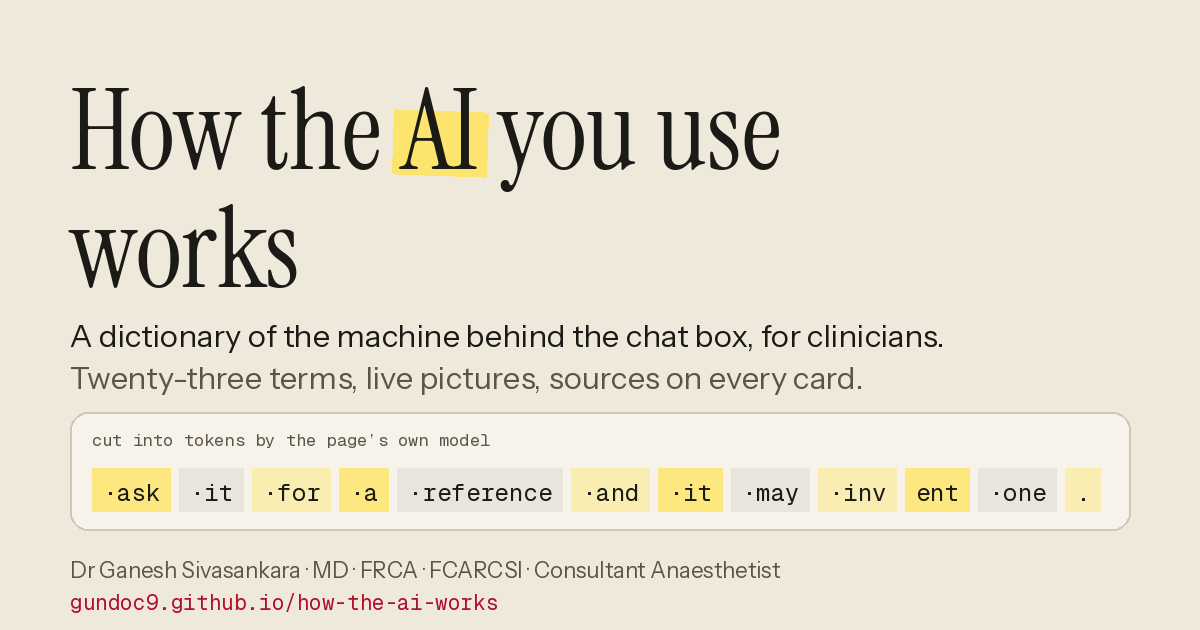
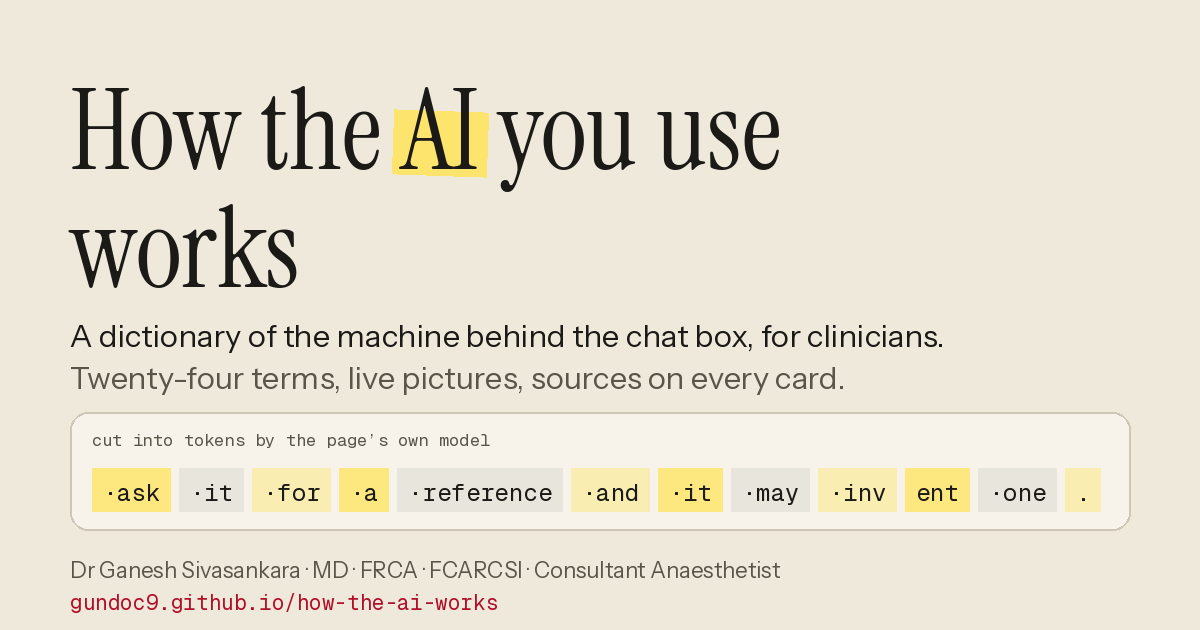
Add files via upload

Changed region(s): [[0.1542, 0.573, 0.7092, 0.6333]]

diff --git a/index.html b/index.html
@@ -5,7 +5,7 @@
 <meta name="viewport" content="width=device-width, initial-scale=1, viewport-fit=cover">
 <meta name="theme-color" content="#EFE9DC">
 <meta name="author" content="Dr Ganesh Sivasankara">
-<meta name="description" content="A dictionary of the machine behind the chat box, for clinicians. Twenty-three terms, live pictures, sources on every card.">
+<meta name="description" content="A dictionary of the machine behind the chat box, for clinicians. Twenty-four terms, live pictures, sources on every card.">
 <title>How the AI you use works</title>
 <!-- shell: home-screen launch and icons; social card for link previews. Kept in build.py so a rebuild never drops them. -->
 <meta name="mobile-web-app-capable" content="yes">
@@ -17,14 +17,14 @@
 <meta property="og:type" content="website">
 <meta property="og:site_name" content="How the AI you use works">
 <meta property="og:title" content="How the AI you use works">
-<meta property="og:description" content="A dictionary of the machine behind the chat box, for clinicians. Twenty-three terms, live pictures, sources on every card.">
+<meta property="og:description" content="A dictionary of the machine behind the chat box, for clinicians. Twenty-four terms, live pictures, sources on every card.">
 <meta property="og:url" content="https://gundoc9.github.io/how-the-ai-works/">
 <meta property="og:image" content="https://gundoc9.github.io/how-the-ai-works/how-the-ai-works-card.png">
 <meta property="og:image:width" content="1200">
 <meta property="og:image:height" content="630">
 <meta name="twitter:card" content="summary_large_image">
 <meta name="twitter:title" content="How the AI you use works">
-<meta name="twitter:description" content="A dictionary of the machine behind the chat box, for clinicians. Twenty-three terms, live pictures, sources on every card.">
+<meta name="twitter:description" content="A dictionary of the machine behind the chat box, for clinicians. Twenty-four terms, live pictures, sources on every card.">
 <meta name="twitter:image" content="https://gundoc9.github.io/how-the-ai-works/how-the-ai-works-card.png">
 <style>
[1 lines of base64/hex data omitted]
@@ -139,7 +139,8 @@ var SOURCES = {
   packer23: {cite:"Packer C, Wooders S, Lin K, et al. MemGPT: towards LLMs as operating systems. arXiv 2023.", link:"https://arxiv.org/abs/2310.08560", label:"arXiv 2310.08560", held:"abstract read"},
   zheng23: {cite:"Zheng L, Chiang WL, Sheng Y, et al. Judging LLM-as-a-judge with MT-Bench and Chatbot Arena. NeurIPS 2023 Datasets and Benchmarks.", link:"https://arxiv.org/abs/2306.05685", label:"arXiv 2306.05685", held:"abstract read"},
   gallifant25: {cite:"Gallifant J, Afshar M, Ameen S, et al. The TRIPOD-LLM reporting guideline for studies using large language models. Nat Med 2025;31:60-69.", link:"https://doi.org/10.1038/s41591-024-03425-5", label:"doi 10.1038/s41591-024-03425-5", held:"abstract read"},
-  sumers23: {cite:"Sumers TR, Yao S, Narasimhan K, Griffiths TL. Cognitive architectures for language agents. Trans Mach Learn Res 2024.", link:"https://arxiv.org/abs/2309.02427", label:"arXiv 2309.02427", held:"abstract read"}
+  sumers23: {cite:"Sumers TR, Yao S, Narasimhan K, Griffiths TL. Cognitive architectures for language agents. Trans Mach Learn Res 2024.", link:"https://arxiv.org/abs/2309.02427", label:"arXiv 2309.02427", held:"abstract read"},
+  patel24: {cite:"Patel P, Choukse E, Zhang C, et al. Splitwise: efficient generative LLM inference using phase splitting. ISCA 2024.", link:"https://arxiv.org/abs/2311.18677", label:"arXiv 2311.18677", held:"abstract read"}
 };
 
 var SECTIONS = [
@@ -160,7 +161,7 @@ var CARDS = [
   freeText:{placeholder:"Type a sentence to cut it", def:"The anaesthetist gave propofol and remifentanil, then checked the capnograph."},
   body:[
     "Before anything happens, your message is cut into tokens. Common words get one token each. Rare words, drug names and numbers get broken into pieces, so a sentence about remifentanil costs more tokens than a sentence about sleep.",
-    "The pieces come from counting. Start with single letters, glue together the pair that appears most often in a huge pile of text, and repeat tens of thousands of times. The result is the vocabulary.",
+    "The pieces come from counting. Start with single letters, glue together the pair that appears most often in a huge pile of text, and repeat tens of thousands of times. The result is the vocabulary, with a number for each entry, and the numbers are all the model ever sees.",
     "The window cuts your sentence with a tokeniser trained on this page. Move the vocabulary from none to all and watch the pieces grow."
   ],
   analogy:"A ward clerk abbreviates the words she types every day and spells out the ones she has never seen.",
@@ -209,7 +210,7 @@ var CARDS = [
   body:[
     "The scores leave the model as raw numbers. Before a token is picked, the app divides them by the temperature. A small temperature makes the favourite stand out more, and a large one lets the others catch up.",
     "At temperature 0 the favourite wins every time. Above 1, unlikely tokens get a real chance, and that is where fluent nonsense comes from.",
-    "You do not usually see this dial, because most chat products set it for you. The window applies the real formula to the toy model's scores."
+    "You do not usually see this dial, because most chat products set it for you, and it is one of several: others cut the list down to its most likely members before the draw. The window applies the real formula to the toy model’s scores."
   ],
   analogy:"The gain on the ultrasound: turned down it shows only the strongest echo, and turned up it lets the speckle through as well.",
   sources:["holtzman20"],
@@ -234,6 +235,22 @@ var CARDS = [
   related:["temperature","hallucination"]
 },
 {
+  id:"phases", short:"Why there is a pause before the first word, then a steady stream.", section:"choice", title:"Prefill and decode",
+  what:"The two halves of every answer: the model reads your whole prompt in one pass, then writes one token per pass.",
+  label:"diagram",
+  pic:"phases",
+  control:{name:"What you sent", options:[{l:"A short question",v:40},{l:"A page pasted",v:800},{l:"A paper pasted",v:8000}], def:0},
+  body:[
+    "Every answer has two phases. First the model reads everything in the window in one big pass, which is the pause before the first word, and the more you pasted the longer the pause. Then it writes one token per pass at a steady rate, which is the stream.",
+    "The two phases strain the chip differently. Reading is heavy arithmetic. Writing is a small calculation repeated thousands of times, and every step has to fetch the whole model from memory, so the speed of the stream is set by how fast memory can be read, and it does not depend on how hard the question is.",
+    "That is why a pasted paper costs more than a short question and why the first word takes longest after a long paste. A thinking model is slower for the same reason, since every thinking token is one more pass. The window shows both phases for a prompt of the length you choose."
+  ],
+  analogy:"A radiologist reads the whole film before saying a word, then dictates the report one sentence at a time.",
+  sources:["patel24"],
+  from:[{s:"patel24", t:"Each request has two phases with different characteristics, a compute-intensive prompt computation and a memory-intensive token generation, and the second runs one token at a time from the cached context (2024)."}],
+  related:["next","context","reasoning"]
+},
+{
   id:"reasoning", short:"Text the model writes to itself before it answers.", section:"choice", title:"Reasoning tokens",
   what:"Text the model writes to itself before it answers, because it has nowhere else to think.",
   label:"diagram",
@@ -246,7 +263,7 @@ var CARDS = [
   ],
   analogy:"The dose is worked out aloud in front of the ODP: the steps have to be spoken to be remembered, and the speaking is what gets checked.",
   sources:["wei22","guo25","turpin23"],
-  from:[{s:"wei22", t:"Asking a large model to write its steps first raised its accuracy on arithmetic and reasoning problems, and only at large scale (2022)."}, {s:"guo25", t:"The reasoning models of 2025 were trained with reinforcement learning on answers that could be checked."}, {s:"turpin23", t:"A model's written explanation can leave out what actually swayed its answer (2023)."}],
+  from:[{s:"wei22", t:"Asking a large model to write its steps first raised its accuracy on arithmetic and reasoning problems, and only at large scale (2022)."}, {s:"guo25", t:"The reasoning models of 2025 were trained with reinforcement learning on answers that could be checked."}, {s:"turpin23", t:"A model’s written explanation can leave out what actually swayed its answer (2023)."}],
   related:["next","context","rl"]
 },
 {
@@ -258,7 +275,7 @@ var CARDS = [
   body:[
     "The model has no memory of its own. Each time it produces a token it is handed the whole text so far, up to a limit measured in tokens. What is inside the limit exists for it, and what is outside does not.",
     "The limits are large now, and they are real. When a conversation outgrows the window the app decides what happens: some drop the oldest turns, some summarise them, and some refuse to go on.",
-    "The window shows a six-turn conversation counted with this page's tokeniser. Widen the limit and watch turns come into view."
+    "The window shows a six-turn conversation counted with this page’s tokeniser. Widen the limit and watch turns come into view."
   ],
   analogy:"The night team knows only what fitted into the ten-minute handover; whatever was left out does not exist for them.",
   sources:["liu24"],
@@ -278,7 +295,7 @@ var CARDS = [
   ],
   analogy:"The briefing the agency nurse gets before the shift is never heard by the patient and shapes everything that follows.",
   sources:["greshake23"],
-  from:[{s:"greshake23", t:"Instructions hidden in retrieved or pasted content can be followed as if they were the user's (2023)."}],
+  from:[{s:"greshake23", t:"Instructions hidden in retrieved or pasted content can be followed as if they were the user’s (2023)."}],
   related:["context","training"]
 },
 {
@@ -304,7 +321,7 @@ var CARDS = [
   pic:"window",
   control:{name:"Retrieval", options:[{l:"Off",v:"off"},{l:"On",v:"on"}], def:0},
   body:[
-    "The model's parameters hold what was in its training text, blurred and undated. Retrieval adds a second memory the app can update: a search over documents, with the top hits placed in the window as text.",
+    "The model’s parameters hold what was in its training text, blurred and undated. Retrieval adds a second memory the app can update: a search over documents, with the top hits placed in the window as text.",
     "An answer with a quoted source is a different kind of answer, because the source was in the window and can be checked. Without retrieval, a citation is a prediction.",
     "The window shows the same conversation with a retrieved passage dropped in before the question."
   ],
@@ -384,7 +401,7 @@ var CARDS = [
   pic:"map",
   control:{name:"Word", options:[], def:0},
   body:[
-    "The model cannot work on letters. Every token becomes a list of numbers, hundreds or thousands long, learned so that tokens used in similar contexts get similar lists. Distance in that space is the model's first idea of meaning.",
+    "The model cannot work on letters. Every token becomes a list of numbers, hundreds or thousands long, learned so that tokens used in similar contexts get similar lists. Distance in that space is the model’s first idea of meaning.",
     "Propofol and sevoflurane end up near each other because they appear in the same kinds of sentence, whether or not anything inside knows what either drug does. A token the model has rarely seen starts from a poor position.",
     "The window counts which words on this page appear near which, within two places, and squashes the result to two dimensions. Tap a word and its nearest neighbours light up."
   ],
@@ -482,7 +499,7 @@ var CARDS = [
   control:{name:"Prompt", options:[], def:0}, // filled at load
   action:{l:"Generate again"},
   body:[
-    "The model's job is to continue text plausibly. A reference in the right shape, with a plausible journal and year, scores well whether or not it exists. Nothing in the loop checks the world.",
+    "The model’s job is to continue text plausibly. A reference in the right shape, with a plausible journal and year, scores well whether or not it exists. Nothing in the loop checks the world.",
     "Some of this is built in. A model that matches its training data must sometimes invent facts of the kind it saw only once. Later training reduces the rate, and tests that reward guessing push it back up.",
     "The window lets the toy model continue a clinical sentence. Highlighted tokens close a phrase that never appears in its training text. Nothing highlighted is wrong by itself; the point is that nothing checked it."
   ],
@@ -510,13 +527,13 @@ var CARDS = [
 },
 {
   id:"calibration", short:"Whether the stated confidence matches the hit rate.", section:"wrong", title:"Calibration",
-  what:"Whether the model's confidence matches its accuracy. Answers given with 70% confidence should be right about 70% of the time.",
+  what:"Whether the model’s confidence matches its accuracy. Answers given with 70% confidence should be right about 70% of the time.",
   label:"live",
   pic:"reliability",
   control:{name:"Temperature", options:[{l:"0.5",v:0.5},{l:"1.0",v:1.0},{l:"2.0",v:2.0}], def:0},
   body:[
     "Confidence and correctness are different things. A model can be confidently wrong or hesitantly right, and what matters for using it is whether its confidence tracks its hit rate.",
-    "A stated confidence in a chat reply is generated text, shaped by later training, and it can be far from the model's internal score.",
+    "A stated confidence in a chat reply is generated text, shaped by later training, and it can be far from the model’s internal score.",
     "The window tests the toy model on the fifth of the text it never saw. Each bar is the accuracy of predictions made at that confidence. Change the temperature and watch the bars move against the diagonal; raise it far enough and every prediction lands in one low bin, calibrated and useless."
   ],
   analogy:"A consent-form risk of one in twenty is judged over a hundred patients, never over one.",
@@ -567,7 +584,8 @@ var ABOUT = {
   diagram:"Cards marked Diagram draw a picture to explain a mechanism. Nothing in them is measured.",
   sim:"Cards marked Simulation run a real learning rule on rewards that this page sets. The learning is real; the rewards are invented to show it.",
   privacy:"Beyond this page and its icon nothing is downloaded, and nothing you type leaves your phone. Links to sources open only if you tap one.",
-  version:"v20, built 10 September 2026"
+  more:[{t:"Reading the EEG", d:"the anaesthetic EEG, from the raw trace to burst suppression", link:"https://gundoc9.github.io/reading-the-eeg/"},{t:"Cannulation geometry", d:"entry angle, catheter length and where the tip ends up", link:"https://gundoc9.github.io/cannulation-geometry/"}],
+  version:"v22, built 12 September 2026"
 };
 if(typeof module!=="undefined") module.exports = {SOURCES:SOURCES, SECTIONS:SECTIONS, CARDS:CARDS, CLAIMS:CLAIMS, ABOUT:ABOUT};
 </script>
@@ -901,7 +919,7 @@ if(typeof module!=="undefined") module.exports = ENGINE;
   function renderIndex(root){
     root.appendChild(el("div",{class:"top"},[el("span",{class:"eyebrow",text:"A dictionary for clinicians"})]));
     var h1 = el("h1",{class:"title"}); h1.innerHTML = 'How the <mark>AI</mark> you use works'; root.appendChild(h1);
-    root.appendChild(el("p",{class:"lede",text:"Twenty-three terms, one per card, each with a picture you can move, one analogy from theatre life, and the papers it rests on. Cards marked Computed live run a small language model built in your browser from the text on this page."}));
+    root.appendChild(el("p",{class:"lede",text:"Twenty-four terms, one per card, each with a picture you can move, one analogy from theatre life, and the papers it rests on. Cards marked Computed live run a small language model built in your browser from the text on this page."}));
     // hero: the page’s own tokeniser cutting a sentence, so the first screen shows what the cards do
     var hero = el("div",{class:"instrument hero"}); var hc = el("canvas",{"aria-label":"This sentence cut into tokens", role:"img"}); hero.appendChild(hc); root.appendChild(hero);
     setTimeout(function(){ try{ drawHero(hc); }catch(e){ showErr("hero: "+(e&&e.message)); } },0);
@@ -942,6 +960,8 @@ if(typeof module!=="undefined") module.exports = ENGINE;
     a.appendChild(el("div",{class:"h",text:"The toy model"}));
     var st = ENG.state;
     a.appendChild(el("p",{text:"Trained when the page opened: "+st.sents.length+" sentences, "+st.merges.length+" merges learned, "+st.model.vocab.length+" tokens in the vocabulary, "+st.train.length+" sentences used for training and "+st.held.length+" held back for the calibration test."}));
+    a.appendChild(el("div",{class:"h",text:"More from the same author"}));
+    (ABOUT.more||[]).forEach(function(m){ var p=el("p",null,[]); p.appendChild(el("a",{href:m.link,target:"_blank",rel:"noopener noreferrer",text:m.t})); p.appendChild(el("span",{text:": "+m.d+"."})); a.appendChild(p); });
     a.appendChild(el("div",{class:"h",text:"Version"}));
     a.appendChild(el("p",{text:ABOUT.version}));
     root.appendChild(a);
@@ -1440,6 +1460,25 @@ if(typeof module!=="undefined") module.exports = ENGINE;
     });
     var out=["The request is ordinary text in an agreed shape. Nothing has happened yet.","Only the app can do things in the world. The model produced a string.","Whatever came back is now in the window, unverified, next to your words.","From here it is next-token prediction again, with more in the window."];
     ro.textContent = "Step "+(a+1)+": "+out[a];
+  };
+  // 24 prefill and decode
+  PIC.phases = function(card, canvas, st, ro){
+    var N = card.control.options[st.opt].v;
+    var s = sizeCanvas(canvas, 250); var ctx=s.ctx;
+    var x0=0, y1=58, y2=150, barH=36, maxW=s.W*0.58;
+    var w = 30 + (Math.log10(N)-1)/(Math.log10(8000)-1)*maxW;
+    text(ctx, "you sent "+N.toLocaleString()+" tokens", 0, 14, {size:11, color:THEME.dim});
+    text(ctx, "the pause: reading everything in one pass", 0, y1-10, {size:11, font:SANS, color:THEME.ink});
+    ctx.fillStyle=THEME.tints[1]; roundRect(ctx, x0, y1, w, barH, 6); ctx.fill(); ctx.strokeStyle=THEME.cool; ctx.lineWidth=1.5; roundRect(ctx, x0+0.75, y1+0.75, w-1.5, barH-1.5, 6); ctx.stroke();
+    text(ctx, fitText(ctx, [N.toLocaleString()+" tokens read", "reading"], w-12, 11, SANS), x0+w/2, y1+barH*0.62, {size:11, font:SANS, align:"center", color:THEME.ink});
+    ctx.strokeStyle=THEME.hot; ctx.lineWidth=2; ctx.beginPath(); ctx.moveTo(x0+w, y1-4); ctx.lineTo(x0+w, y1+barH+6); ctx.stroke();
+    text(ctx, "first word", x0+w+6, y1+barH+18, {size:11, color:THEME.hotText});
+    text(ctx, fitText(ctx, ["the stream: one token per pass, at the same rate whatever you asked", "the stream: one token per pass, same rate whatever you asked", "the stream: one token per pass"], s.W, 11, SANS), 0, y2-10, {size:11, font:SANS, color:THEME.ink});
+    var n=14, bw=Math.min(18, (s.W-4)/n-4), gap=4;
+    for(var i=0;i<n;i++){ ctx.fillStyle=THEME.amberFill; roundRect(ctx, i*(bw+gap), y2, bw, 22, 4); ctx.fill(); }
+    ctx.strokeStyle=THEME.dim; ctx.lineWidth=1; ctx.beginPath(); ctx.moveTo(0, s.H-22); ctx.lineTo(s.W-2, s.H-22); ctx.lineTo(s.W-8, s.H-26); ctx.moveTo(s.W-2, s.H-22); ctx.lineTo(s.W-8, s.H-18); ctx.stroke();
+    text(ctx, "time", 0, s.H-6, {size:10, color:THEME.dim});
+    ro.textContent = (N<=40 ? "A short question is read almost at once, and the stream starts straight away." : (N<=800 ? "A pasted page takes a visible pause to read, then streams at the usual rate." : "A pasted paper takes the longest pause of the three, then streams at exactly the same rate as the short question."));
   };
   // 23 harness
   PIC.harness = function(card, canvas, st, ro){

diff --git a/SOURCES.md b/SOURCES.md
@@ -1,4 +1,4 @@
-# Sources and how far each was checked (v19, 10 September 2026)
+# Sources and how far each was checked (v22, 12 September 2026)
 
 What "checked" means here, in three grades:
 - **Full text read**: the paper was fetched and read in this session before the context was compacted; the numbers on the card were recorded at the time and one (six orders of magnitude) re-verified afterwards from the paper's own figure caption.
@@ -36,7 +36,8 @@ Every arXiv identifier came from a search result in this session, not from memor
 | Zheng 2023, arXiv 2306.05685 | abstract | Evals | a strong model as judge agreed with human raters over 80% of the time, about the human-human level, with position, verbosity and self-enhancement biases | abstract (checked 9 Sep) |
 | Gallifant 2025, Nat Med 31:60-69 | abstract | Evals | TRIPOD-LLM reporting guideline: transparency, human oversight, task-specific performance reporting | abstract (checked 9 Sep) |
 | Sumers 2023, arXiv 2309.02427 | abstract | Harness | a language agent as a model plus modular memories, an action space and a decision procedure | abstract (checked 10 Sep) |
+| Patel 2024, ISCA, arXiv 2311.18677 | abstract | Prefill and decode | two phases per request, compute-intensive prompt computation and memory-intensive token generation, the second one token at a time from the cached context | abstract (checked 12 Sep) |
 
-Not checked: the body of any abstract-grade paper beyond the two sections named above. A full-text pass over the 25 is about twenty-five fetches and one session; the abstracts support every claim as it is now worded, so the risk is nuance, not contradiction.
+Not checked: the body of any abstract-grade paper beyond the two sections named above. A full-text pass over the 26 is about twenty-six fetches and one session; the abstracts support every claim as it is now worded, so the risk is nuance, not contradiction.
 
 Dr Ganesh Sivasankara · MD · FRCA · FCARCSI · Consultant Anaesthetist

diff --git a/README.md b/README.md
@@ -1,6 +1,6 @@
 # How the AI you use works
 
-A dictionary of the machine behind the chat box, written for clinicians. Twenty-three terms, one per card. Each card carries a picture that responds to a control, one analogy from theatre life, and the papers it rests on, with a note on how far each paper was checked.
+A dictionary of the machine behind the chat box, written for clinicians. Twenty-four terms, one per card. Each card carries a picture that responds to a control, one analogy from theatre life, and the papers it rests on, with a note on how far each paper was checked.
 
 Live at: https://gundoc9.github.io/how-the-ai-works/
 
